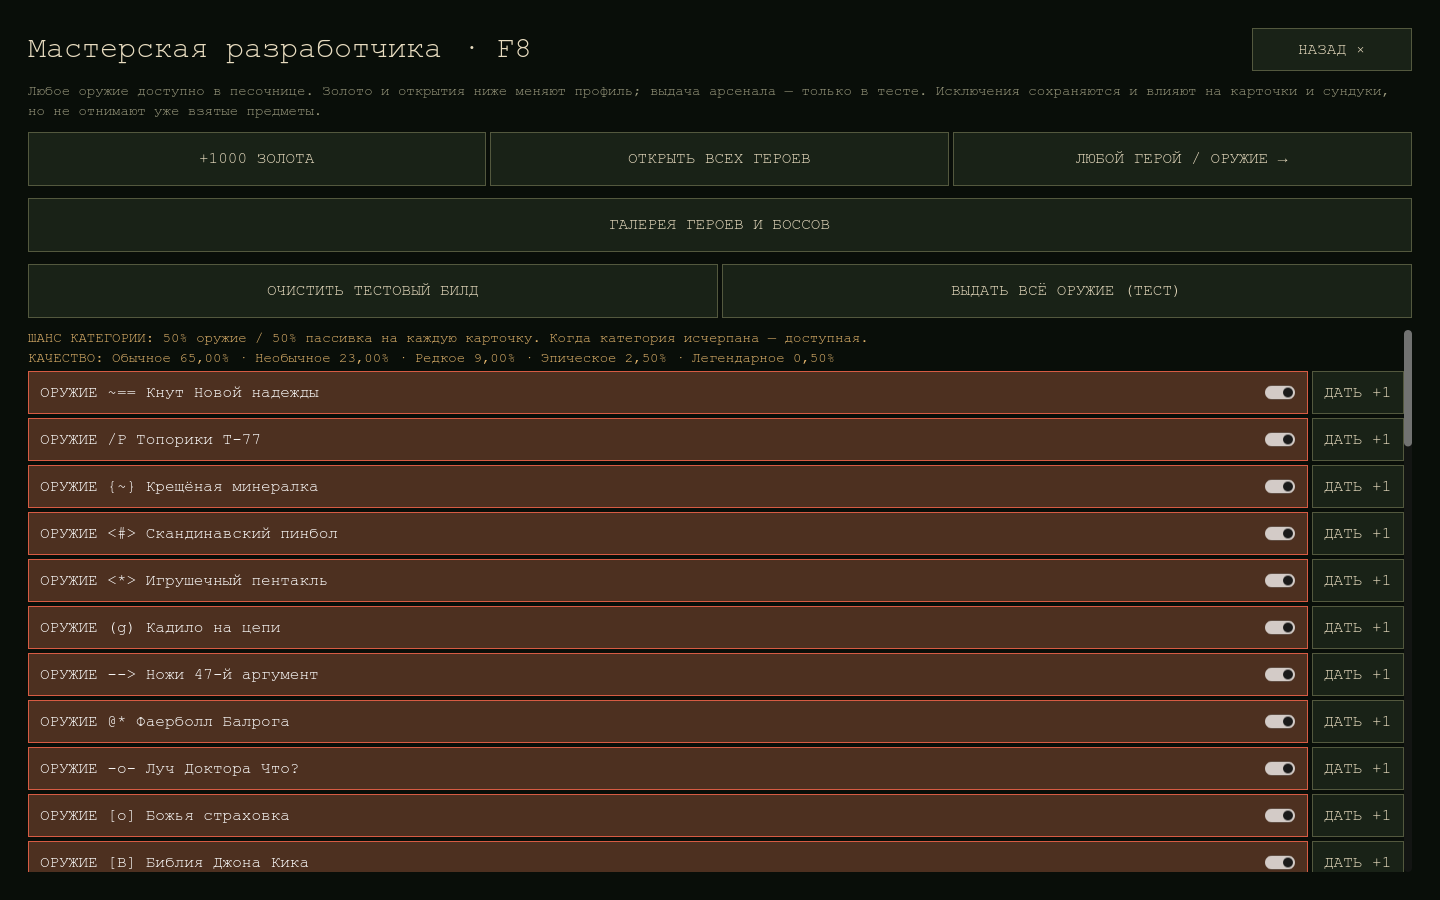
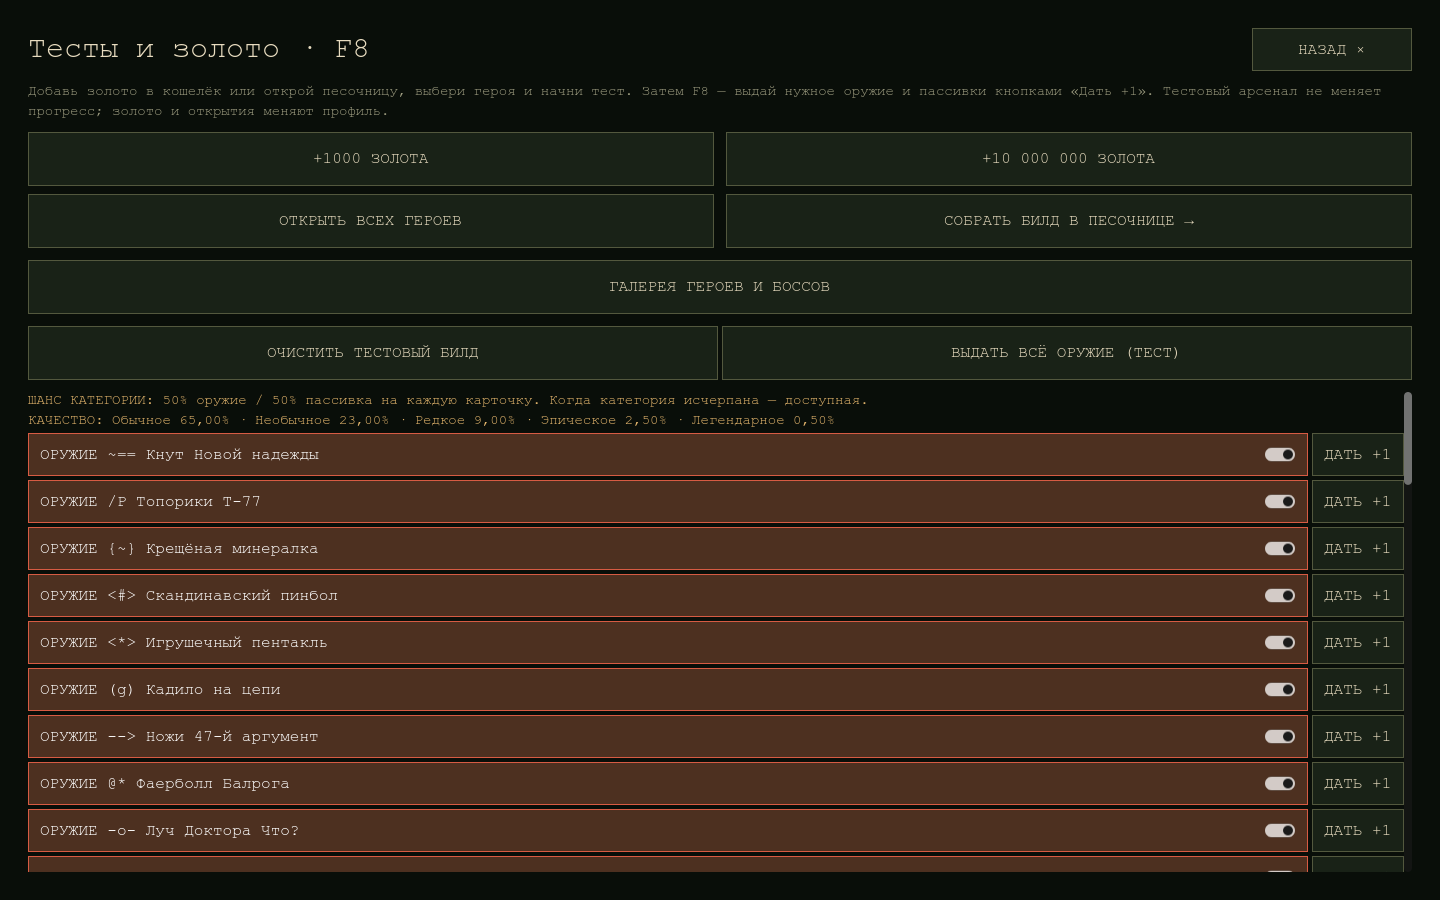
Expose test and gold tools in title menu and settings

diff --git a/godot/src/DeveloperMenu.cs b/godot/src/DeveloperMenu.cs
@@ -6,19 +6,21 @@ public partial class Main
 {
     private void ShowDeveloper()
     {
-        PrepareAux();var body=Modal("developer","Мастерская разработчика · F8","Любое оружие доступно в песочнице. Золото и открытия ниже меняют профиль; выдача арсенала — только в тесте. Исключения сохраняются и влияют на карточки и сундуки, но не отнимают уже взятые предметы.",true);
-        var top=new HBoxContainer();body.AddChild(top);
-        top.AddChild(MenuAction("DevGold","+1000 ЗОЛОТА",()=>
+        PrepareAux();var body=Modal("developer","Тесты и золото · F8","Добавь золото в кошелёк или открой песочницу, выбери героя и начни тест. Затем F8 — выдай нужное оружие и пассивки кнопками «Дать +1». Тестовый арсенал не меняет прогресс; золото и открытия меняют профиль.",true);
+        var top=new GridContainer{Columns=2};top.AddThemeConstantOverride("h_separation",12);top.AddThemeConstantOverride("v_separation",8);body.AddChild(top);
+        void GiveGold(int amount)
         {
-            int before=store.Profile.Gold;store.Profile.Gold=Math.Min(100000000,store.Profile.Gold+1000);
+            int before=store.Profile.Gold;store.Profile.Gold=(int)Math.Min(100000000,(long)store.Profile.Gold+amount);
             if(!store.Write()){store.Profile.Gold=before;Toast(store.LastError);}else Toast("КОШЕЛЁК: "+store.Profile.Gold);
-        }));
+        }
+        top.AddChild(MenuAction("DevGold","+1000 ЗОЛОТА",()=>GiveGold(1000)));
+        top.AddChild(MenuAction("DevGoldMillion","+10 000 000 ЗОЛОТА",()=>GiveGold(10000000)));
         top.AddChild(MenuAction("DevUnlockHeroes","ОТКРЫТЬ ВСЕХ ГЕРОЕВ",()=>
         {
             var before=new HashSet<string>(store.Profile.Heroes);store.Profile.Heroes.UnionWith(content.Heroes.Keys);
             if(!store.Write()){store.Profile.Heroes=before;Toast(store.LastError);}else Toast("ВСЕ ГЕРОИ ОТКРЫТЫ");
         }));
-        top.AddChild(MenuAction("DevSandbox","ЛЮБОЙ ГЕРОЙ / ОРУЖИЕ →",OpenSandbox));
+        top.AddChild(MenuAction("DevSandbox","СОБРАТЬ БИЛД В ПЕСОЧНИЦЕ →",OpenSandbox));
         body.AddChild(MenuAction("ArtGallery","ГАЛЕРЕЯ ГЕРОЕВ И БОССОВ",ShowArtGallery));
         var test=new HBoxContainer();body.AddChild(test);
         test.AddChild(MenuAction("DevClear","ОЧИСТИТЬ ТЕСТОВЫЙ БИЛД",()=>

diff --git a/godot/src/SmokeTest.cs b/godot/src/SmokeTest.cs
@@ -17,11 +17,13 @@ public partial class Main
             Assert(DisplayServer.WindowGetMode() is DisplayServer.WindowMode.Fullscreen or DisplayServer.WindowMode.ExclusiveFullscreen,"Game starts fullscreen");
             await Shot("00-startup-fullscreen");DisplayServer.WindowSetMode(DisplayServer.WindowMode.Windowed);DisplayServer.WindowSetSize(new(1440,900));await Settle();
             await Shot("01-title");Assert(overlayKind=="intro"&&!overlay.FindChildren("HeroGrid","",true,false).Any(),"Title separate from hero selection");
+            Press("Developer");await Shot("developer-from-title");Assert(overlayKind=="developer","Test tools reachable directly from title");int initialDevGold=store.Profile.Gold;Press("DevGoldMillion");Assert(store.Profile.Gold==initialDevGold+10000000,"Large gold button grants ten million");CloseAux();Assert(overlayKind=="intro","Test tools return to title");
             Assert(audio.Track=="menu","Title music starts");
             var playingMusic=audio.GetChildren().OfType<AudioStreamPlayer>().Single(p=>p.Playing&&p.Stream is AudioStreamWav w&&w.LoopMode==AudioStreamWav.LoopModeEnum.Forward);
             playingMusic.Seek((float)playingMusic.Stream.GetLength()-.1f);for(int i=0;i<30;i++)await ToSignal(GetTree(),SceneTree.SignalName.ProcessFrame);
             Assert(playingMusic.Playing&&playingMusic.GetPlaybackPosition()<2,"Exported music loops after end");
             Press("Settings");await Shot("01-settings");Assert(overlayKind=="settings"&&overlay.GetGlobalRect().Encloses(centeredBody!.GetGlobalRect()),"Audio menu fits");
+            var testTabs=overlay.FindChildren("SettingsTabs","TabContainer",true,false).Cast<TabContainer>().Single();Assert(testTabs.GetTabCount()==3,"Settings exposes Tests tab");testTabs.CurrentTab=2;await Shot("settings-tests");Press("Developer");Assert(overlayKind=="developer","Developer menu reachable from settings");CloseAux();Press("Settings");
             await CheckVideoSettingsUi(directory);
             overlay.FindChildren("SettingsTabs","TabContainer",true,false).Cast<TabContainer>().Single().CurrentTab=1;await Shot("01-audio");
             var musicVolume=overlay.FindChildren("Volume-music","HSlider",true,false).Cast<HSlider>().Single();musicVolume.Value=23;await Settle();Assert(Math.Abs(audio.Music-.23f)<.001f,"Volume slider applies immediately");

diff --git a/godot/src/Menus.cs b/godot/src/Menus.cs
@@ -50,7 +50,7 @@ public partial class Main
         if(game.Status==RunStatus.Paused&&overlayKind=="pause"){Resume();return;}if(game.Status!=RunStatus.Running)return;game.Status=RunStatus.Paused;game.MoveInput=default;game.Firing=false;SaveCurrent();
         var body=Modal("pause","Передышка","Враги и таймер на паузе.",width:540);body.Alignment=BoxContainer.AlignmentMode.Center;
         audio.Play(SoundCue.Pause);
-        body.AddChild(Button("ПРОДОЛЖИТЬ →",Resume,true));body.AddChild(MenuAction("Settings","НАСТРОЙКИ",ShowSettings));body.AddChild(Button("ПЕСОЧНИЦА / НАСТРОИТЬ ТЕСТ",OpenSandbox));body.AddChild(MenuAction("Developer","МАСТЕРСКАЯ · F8",ShowDeveloper));body.AddChild(Button("ДВИЖОК И УРОН",ShowMetrics));body.AddChild(Button("НАЧАТЬ ЗАНОВО",StartNew));body.AddChild(Button("НА СТАРТОВЫЙ ЭКРАН",()=>{SaveCurrent();MakeReady();ShowIntro();}));
+        body.AddChild(Button("ПРОДОЛЖИТЬ →",Resume,true));body.AddChild(MenuAction("Settings","НАСТРОЙКИ",ShowSettings));body.AddChild(Button("ПЕСОЧНИЦА / НАСТРОИТЬ ТЕСТ",OpenSandbox));body.AddChild(MenuAction("Developer","ТЕСТЫ И ЗОЛОТО [F8]",ShowDeveloper));body.AddChild(Button("ДВИЖОК И УРОН",ShowMetrics));body.AddChild(Button("НАЧАТЬ ЗАНОВО",StartNew));body.AddChild(Button("НА СТАРТОВЫЙ ЭКРАН",()=>{SaveCurrent();MakeReady();ShowIntro();}));
     }
     private void Resume(){CloseOverlay();if(game.Status==RunStatus.Paused)game.Status=RunStatus.Running;lastStatus=game.Status;}
     private void PrepareAux()

diff --git a/godot/src/FrontEnd.cs b/godot/src/FrontEnd.cs
@@ -37,7 +37,7 @@ public partial class Main
         sections.AddChild(MenuAction("Legacy","[+]  НАСЛЕДИЕ",ShowShop));
         sections.AddChild(MenuAction("Recipes","[?]  НЕКРОНОМИКОН"+(store.Profile.Features.Contains("necronomicon")?"":"\nОТКРЫТЬ · "+content.Features.First(f=>f.Id=="necronomicon").Cost+" ЗОЛ."),()=>OpenFeature("necronomicon")));
         sections.AddChild(MenuAction("Bestiary","(x)  БЕСТИАРИЙ"+(store.Profile.Features.Contains("bestiary")?"":"\nОТКРЫТЬ · "+content.Features.First(f=>f.Id=="bestiary").Cost+" ЗОЛ."),()=>OpenFeature("bestiary")));
-        sections.AddChild(MenuAction("Laboratory","[>]  ИСПЫТАНИЯ",ShowLab));
+        sections.AddChild(MenuAction("Developer","ТЕСТЫ И ЗОЛОТО\n[F8]",ShowDeveloper));
         body.AddChild(CenterText($"ОТКРЫТО ГЕРОЕВ {store.Profile.Heroes.Count} / {content.Heroes.Count}   ·   ЛУЧШИЙ ЗАБЕГ {FormatTime((float)store.Profile.BestTime)}",13,muted));
         body.AddChild(CenterText("ОДИН ГЕРОЙ. ОЧЕНЬ ДОЛГАЯ НОЧЬ.",12,muted));
         if(store.LastError.Length>0)body.AddChild(CenterText(store.LastError,13,red));

diff --git a/godot/src/AudioMenu.cs b/godot/src/AudioMenu.cs
@@ -25,6 +25,9 @@ public partial class Main
         }
         sound.AddChild(Paragraph("0% — выключить канал. Музыка в меню паузы звучит тише.",14,muted));
         sound.AddChild(Button("ПРОВЕРИТЬ ЭФФЕКТ",()=>audio.Play(SoundCue.Chest)));
+        var testMargin=Margin(18);testMargin.Name="Тесты";tabs.AddChild(testMargin);var tests=new VBoxContainer();Gap(tests,14);testMargin.AddChild(tests);
+        tests.AddChild(Paragraph("Золото, открытие героев и сборка тестовых билдов доступны в мастерской. Быстрый доступ — F8.",16,parchment));
+        tests.AddChild(MenuAction("Developer","ТЕСТЫ И ЗОЛОТО [F8]",ShowDeveloper));tests.AddChild(MenuAction("Laboratory","ПЕСОЧНИЦА И НАГРУЗОЧНЫЙ ТЕСТ",ShowLab));
         body.AddChild(Button("ГОТОВО →",CloseAux,true));
     }
     private void ApplyVideo(int fps,bool sync)

diff --git a/docs/DROPS_AND_DEVELOPER.md b/docs/DROPS_AND_DEVELOPER.md
@@ -83,7 +83,7 @@
 
 ## Мастерская разработчика
 
-F8, либо Испытания → Мастерская; также кнопка в паузе. Можно добавить 1000 золота в профиль, открыть всех героев, перейти к выбору любого героя/оружия в песочнице, выдать отдельный предмет +1, весь арсенал максимального ранга или очистить тестовый билд до одного оружия. Выдача арсенала доступна только в тестах. Ни у одного оружия нет отдельного замка покупки: все доступны для выбора в тесте и обычном пуле.
+Главное меню → «Тесты и золото [F8]», Настройки → «Тесты», либо F8; также кнопка в паузе. Можно добавить 1000 или 10 000 000 золота в профиль, открыть всех героев, перейти к выбору любого героя/оружия в песочнице, выдать отдельный предмет +1, весь арсенал максимального ранга или очистить тестовый билд до одного оружия. Выдача арсенала доступна только в тестах. Ни у одного оружия нет отдельного замка покупки: все доступны для выбора в тесте и обычном пуле.
 
 Галочки ротации сохраняются в профиле, применяются к текущему бою и новым забегам. Уже взятый предмет продолжает работать; стартовое оружие героя выдаётся независимо от ротации. Песочница позволяет принудительно тестировать исключённый предмет. Если исключены все дары, повышение уровня использует существующее лечение вместо выбора. Галерея показывает тот же каталог портретов, что используется на поле.
 

diff --git a/godot/README.md b/godot/README.md
@@ -105,3 +105,5 @@ CSV содержит реальные интервалы между кадрам
 Короткий сравнительный Release-тест на i5-10400F / RTX 3060, 6000 врагов шести обычных типов и элита, полный арсенал: 24,82 → 11,05 мс/кадр, p95 29,17 → 13,57 мс. Все 6000 врагов сохранены. Это 100 кадров прогрева + 600 измеряемых кадров, а не получасовой прогон; при разной частоте кадров длительность симуляции в выборках различается. [До](../docs/benchmarks/godot-mixed-before.json), [после](../docs/benchmarks/godot-mixed-after.json). Render benchmark теперь использует эту смешанную сцену, снимок `live-crowd.png`. Реальные просадки следует проверять по журналам телеметрии своего забега.
 
 Точные параметры и новая общая формула цен: [Наследие — 27 усилений, сброс и перенос старых покупок](../docs/LEGACY_EXACT.md).
+
+Инструменты для тестов: **главное меню → Тесты и золото [F8]**, либо **Настройки → Тесты**. В паузе тоже есть кнопка. Можно добавить 10 000 000 золота за нажатие; для сборки билда запустите песочницу и через F8 выдайте оружие и пассивки.
